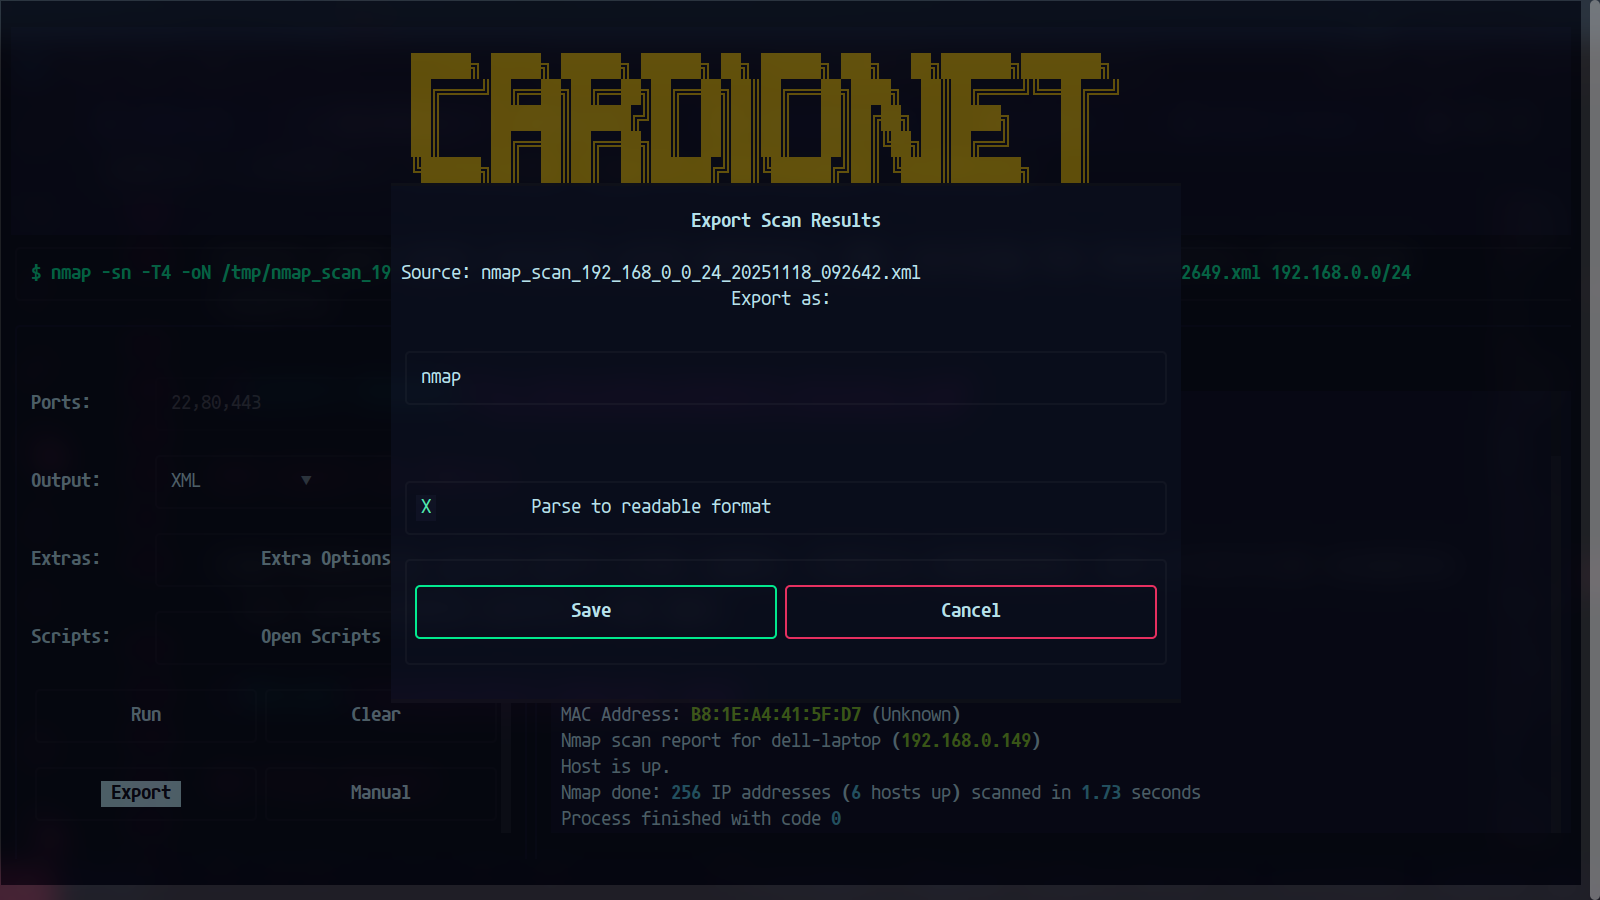
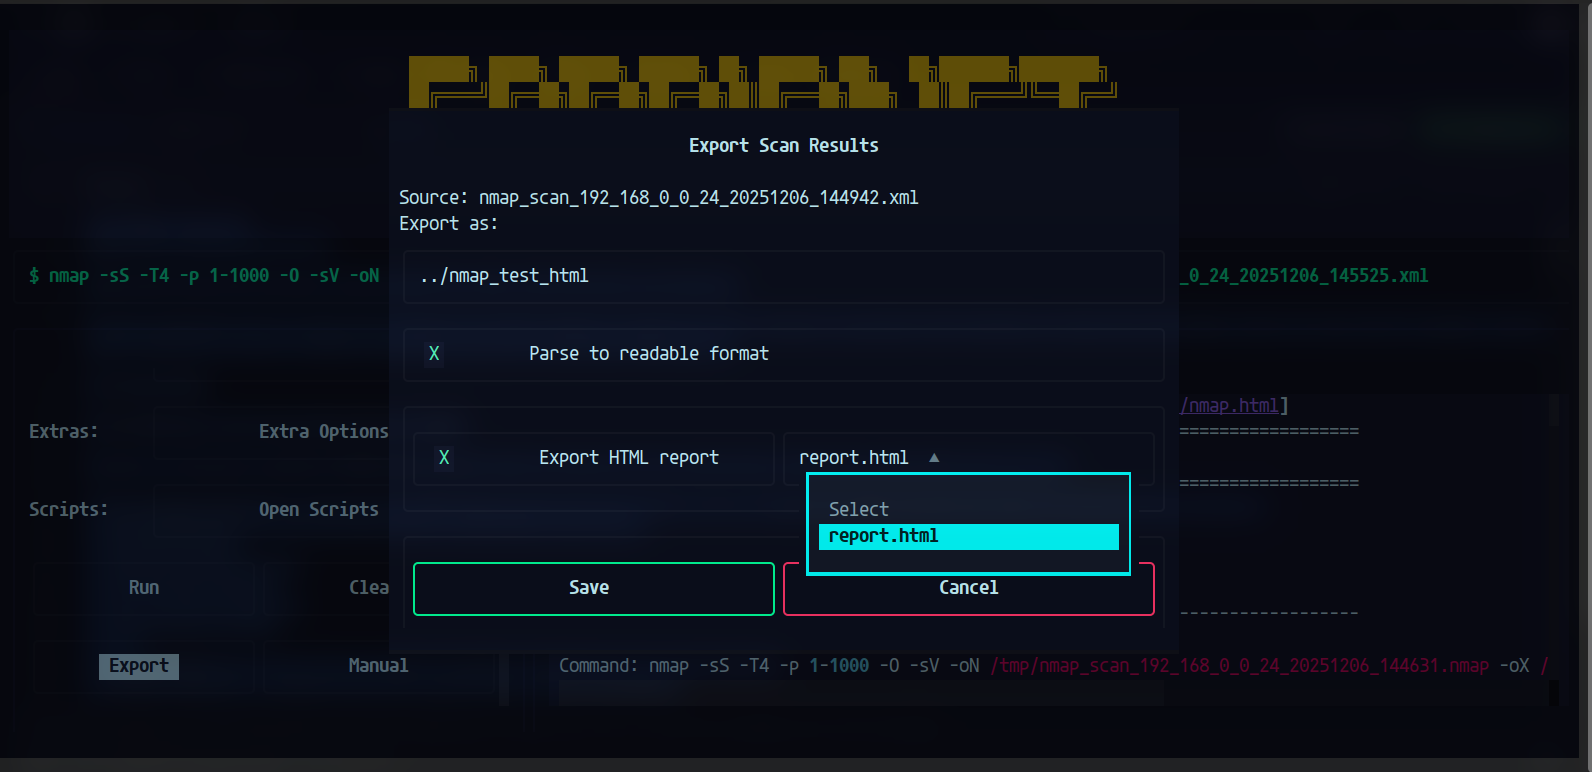
Updates...

diff --git a/README.md b/README.md
@@ -3,7 +3,28 @@
 
 A beautiful, modern Terminal User Interface (TUI) for nmap, built with Python and Textual.
 
-CardioNet simplifies network scanning by providing an intuitive graphical interface for nmap, making it accessible to both beginners and advanced users. Build complex scanning commands visually, execute them in real-time, and export results in multiple formats.
+CardioNet simplifies network scanning by providing an intuitive graphical interface for nmap, making it accessible to both beginners and advanced users. Build complex scanning commands visually, execute them in real-time, and export results in multiple formats with professional HTML reports.
+
+## ✨ What's New
+
+### 🎨 HTML Export with Customizable Templates (NEW)
+
+CardioNet now features a powerful **HTML export system** that transforms your scan results into professional, stakeholder-ready reports:
+
+- **Customizable Templates**: Create your own HTML templates and save them to the `templates/` folder. CardioNet automatically detects and lists them during export
+- **Professional Reports**: Generate beautifully formatted HTML reports with:
+  - Executive Summary
+  - Network Topology Overview
+  - Host Discovery Results
+  - Port and Service Analysis
+  - OS Fingerprinting Data
+  - ...
+- **Template Selection**: During export, choose from built-in templates or your custom templates
+- **Branding Support**: Customize reports with company logos, colors, and branding
+
+This feature is perfect for sharing findings with management, clients, and stakeholders who need clear, visual presentations of security assessments.
+
+---
 
 ## Features
 
@@ -23,8 +44,10 @@ CardioNet simplifies network scanning by providing an intuitive graphical interf
 
 ### 📤 Export & Reporting
 
-- **Multiple Output Formats**: Normal, XML, and Grepable
+- **Multiple Output Formats**: Normal, XML, Grepable, and **HTML** (NEW)
 - **Smart XML Parsing**: Convert XML to beautifully formatted text reports
+- **HTML Export**: Generate professional reports with customizable templates
+- **Template System**: Create and manage custom HTML templates in the `templates/` folder
 - **Automatic Timestamps**: Files saved with date/time stamps in `/tmp`
 - **Real-time Streaming**: Watch scan results appear live
 
@@ -63,6 +86,7 @@ pip install -r requirements.txt
 ```bash
 chmod +x cardionet.py
 ```
+
 
 ## Usage
 
@@ -111,6 +135,32 @@ sudo ./cardionet.py
 
 8. **Export Results**: Press E to export in your choice of format
 
+### Using HTML Export (New Feature)
+
+1. **Complete a scan** using the normal process above
+
+2. **Press E** to open the export dialog
+
+3. **Select "HTML" as the export format**
+
+4. **Choose a template**:
+   - Select from built-in templates, OR
+   - Choose a custom template from your `templates/` folder
+
+6. **Generate Report**: CardioNet creates a professional HTML file with all scan data
+
+7. **Share the report** with stakeholders - it's a self-contained HTML file
+
+### Creating Custom HTML Templates
+
+Templates are stored in the `templates/` folder. To create a custom template:
+
+1. Create an HTML file with template placeholders for scan data
+2. Save it to the `templates/` folder with a `.html` extension
+3. Restart CardioNet
+4. The template will appear in the HTML export dialog
+
+
 ## Examples
 
 ### Quick Host Discovery
@@ -120,35 +170,39 @@ Find active hosts on your network without detailed port information:
 - Target: `192.168.1.0/24`
 - Scan Type: Host Discovery (-sn)
 - Timing: T4
+- Export: HTML with Executive template
 
-### Find Web Servers
+### Find Web Servers and Generate Report
 
-Identify web services on your network:
+Identify web services and create a professional report:
 
 - Target: `192.168.1.0/24`
 - Scan Type: SYN (-sS)
 - Ports: `80,443`
 - Enable: Version Detection
 - Script: `http-title`
+- Export: HTML with Professional template
 
-### Deep System Analysis
+### Deep System Analysis with Custom Report
 
-Get comprehensive information about a specific host:
+Get comprehensive information and generate a branded report:
 
 - Target: `192.168.1.100`
 - Scan Type: SYN (-sS)
 - Ports: `1-65535`
 - Enable: OS Detection, Version Detection, Verbose
 - Timing: T3
+- Export: HTML with Custom Company template
 
 ### Stealthy Reconnaissance (Advanced)
 
-Minimal network noise scanning:
+Minimal network noise scanning with detailed reporting:
 
 - Target: `192.168.1.0/24`
 - Scan Type: FIN (-sF)
 - Timing: T2 (Polite)
 - Ports: `22,80,443,3306`
+- Export: HTML with Stealth Assessment template
 
 ## Screenshots
 
@@ -182,11 +236,17 @@ Browse and filter nmap's NSE script library, view descriptions, and add scripts 
 
 ![Scripts Modal](screenshots/scripts-modal.png)
 
-### Export Dialog
+### Export Dialog (Enhanced)
 
-Export your scan results with optional XML parsing for beautiful formatted reports.
+Export your scan results in multiple formats including the new HTML export with template selection.
 
 ![Export Dialog](screenshots/export-dialog.png)
+
+### HTML Report Example
+
+Professional, customizable HTML reports generated from your scan data - perfect for stakeholder presentations.
+
+![HTML Report](screenshots/html-report.png)
 
 ### Built-in Manual
 
@@ -210,6 +270,9 @@ When exporting XML with parsing enabled, you'll get a beautifully formatted text
 /tmp/nmap_scan_target_YYYYMMDD_HHMMSS.txt
 ```
 
+When exporting to HTML, the report is generated based on your selected template:
+
+
 ## Technical Details
 
 ### Architecture
@@ -217,6 +280,7 @@ When exporting XML with parsing enabled, you'll get a beautifully formatted text
 - **Framework**: Textual (Python TUI framework)
 - **Scanner**: nmap (system integration)
 - **Parsing**: XML ElementTree for report generation
+- **HTML Generation**: Jinja2 template engine for customizable reports
 - **Theme**: Custom neon theme for modern aesthetics
 
 ### Command Building
@@ -229,6 +293,17 @@ nmap -sS -T4 -p 1-1000 -O -sV 192.168.1.0/24
 
 You can see the exact command in the Command Preview window before execution.
 
+### HTML Export System
+
+CardioNet's HTML export uses a template-based system:
+
+1. Scan data is collected and parsed
+2. User selects a template from available options
+3. Template engine (Jinja2) renders the HTML with scan data
+4. Professional report is generated and saved
+
+Templates can include conditional sections, custom styling, branding, and any HTML/CSS you want.
+
 ## Requirements
 
 See `requirements.txt` for Python dependencies. Additionally:
@@ -237,19 +312,6 @@ See `requirements.txt` for Python dependencies. Additionally:
 - **Root/sudo access** for full network scanning capabilities
 - **Linux/Unix system** (tested on Ubuntu, Fedora, Debian, macOS)
 
-## Output Formats
-
-### Normal Format (-oN)
-
-Human-readable output with all scan details. Always saved automatically.
-
-### XML Format (-oX)
-
-Machine-parseable XML for integration with other tools. CardioNet can parse this into a beautiful text report.
-
-### Grepable Format (-oG)
-
-Easy to parse with grep and other Unix tools. Perfect for automation and scripting.
 
 ## Ethical Considerations
 
@@ -290,6 +352,13 @@ Try reducing the port range or using a faster timing template (T5).
 
 Make sure the target is reachable and the firewall isn't blocking nmap.
 
+### HTML templates not appearing in export dialog
+
+Make sure your template files:
+- Are in the `templates/` folder in the CardioNet directory
+- Have a `.html` extension
+- Contain valid HTML and Jinja2 syntax
+
 ## Contributing
 
 Contributions are welcome! Please feel free to submit a Pull Request.
@@ -306,6 +375,7 @@ Built with ❤ by [Hosni Zaaraoui]
 
 - Built with [Textual](https://textual.textualize.io/) by Textualize
 - Powered by [nmap](https://nmap.org/) by Gordon Lyon
+- Template rendering with [Jinja2](https://jinja.palletsprojects.com/)
 - Inspired by the need for a better nmap user experience
 
 ## Links
@@ -313,6 +383,7 @@ Built with ❤ by [Hosni Zaaraoui]
 - **Repository**: https://github.com/hosnizaaraoui/cardionet
 - **Nmap Documentation**: https://nmap.org/book/
 - **Textual Documentation**: https://textual.textualize.io/
+- **Jinja2 Documentation**: https://jinja.palletsprojects.com/
 - **Issue Tracker**: https://github.com/hosnizaaraoui/cardionet/issues
 
 ---
